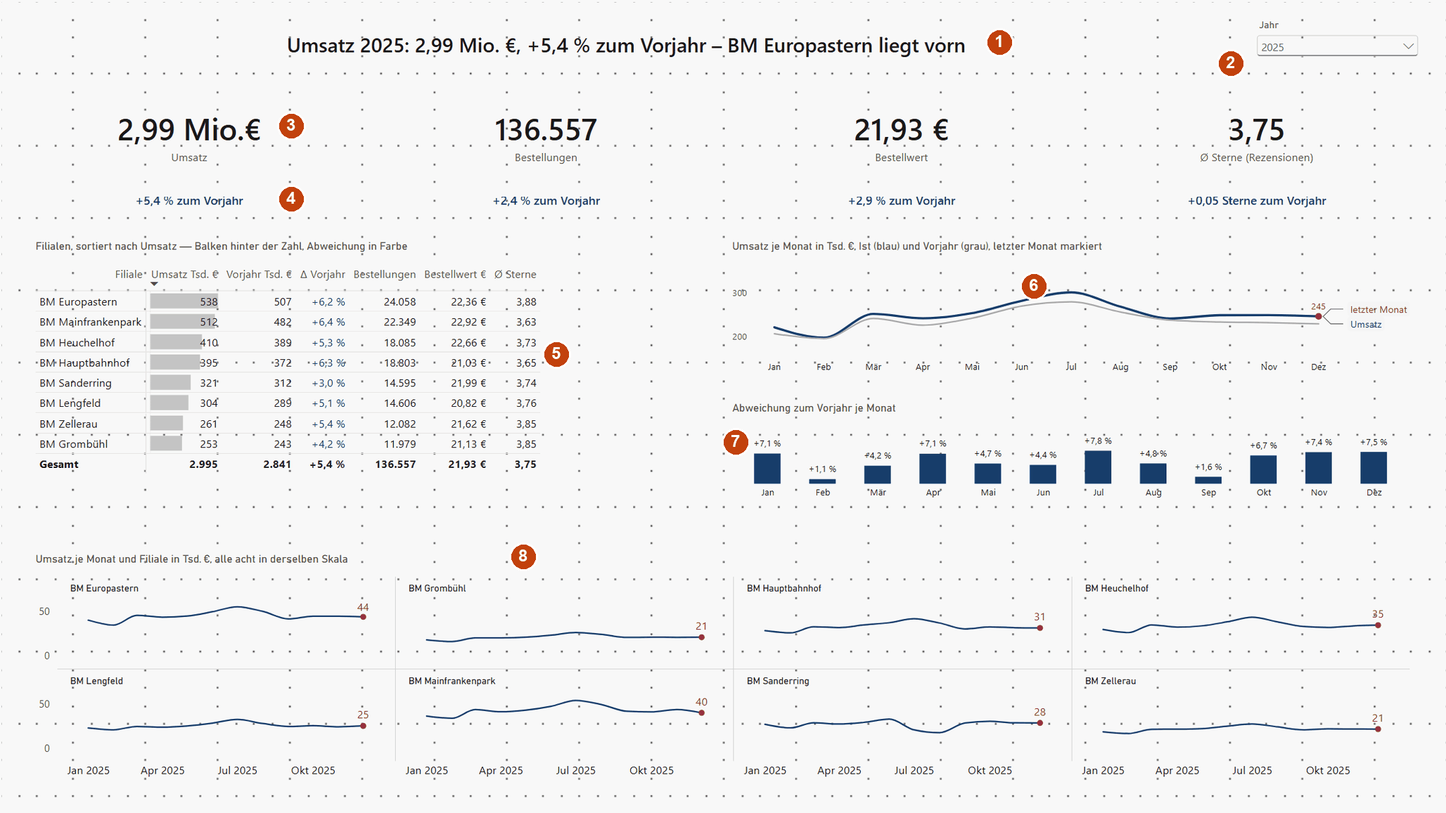
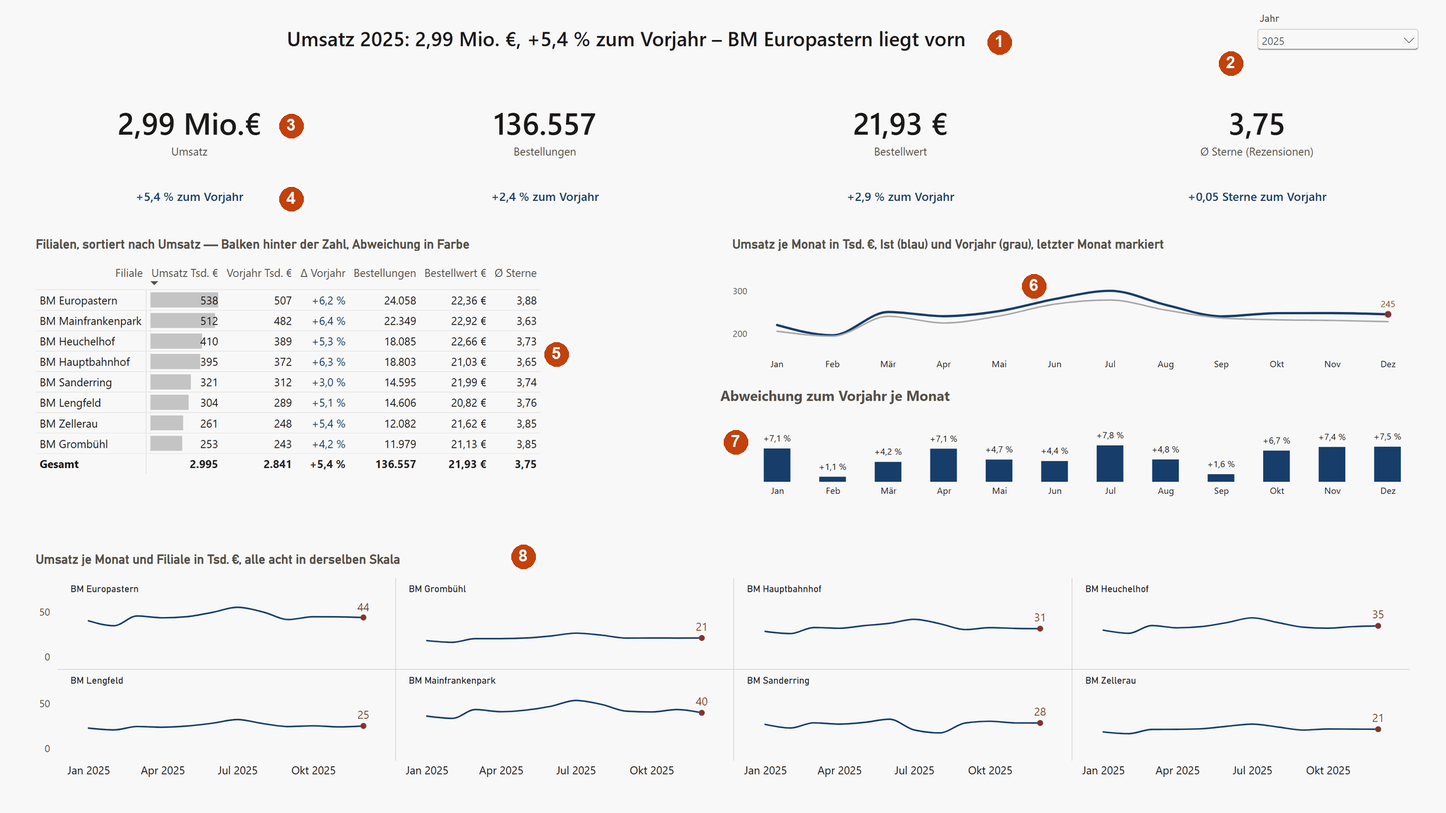
lab 04: Signalfarbe je Monat, Monate in einer Flucht, größere Überschriften
Die Säulen der Abweichung standen für 2020 alle rot, auch die vier Plus-Monate:
Der Formatstil der bedingten Formatierung stand auf "Regeln" mit Monat als
Grundlage statt auf "Feldwert" mit Δ Umsatz Farbe. Beim Umstellen schreibt
Power BI den Selektor dataViewWildcard, ohne den die Farbe einmal fürs ganze
Visual statt je Datenpunkt ausgewertet wird.

Dazu die Ausrichtung: Die Reihenbeschriftungen des Liniendiagramms verkürzten
dessen Zeichenfläche um 196 Pixel — abgeschaltet, der Titel nennt die Serien
ohnehin. Der Titel des Säulendiagramms ist jetzt ein Textfeld bei x 956, das
Diagramm selbst steht auf x 969 / Breite 938; damit decken sich Jan bis Dez
auf ein Pixel genau. Die Überschriften der drei übrigen Visuals sind 14 pt
fett statt 12 pt mager.

Neues Bild dashboard-2020.png zeigt, was die Signalfarbe bewirkt: Umsatz
−12,4 % und Bestellungen −13,3 % rot, Bestellwert +1,1 % und Ø Sterne +0,07
blau, die Säulen gemischt. dashboard.png neu aufgenommen, Legendenpunkte 6
und 7 nachgezogen, Spec ergänzt.

diff --git a/web/lab/lab-04-powerbi.html b/web/lab/lab-04-powerbi.html
@@ -290,10 +290,13 @@
       <li><span class="callout">3</span><span>Vier Karten: <code>Umsatz</code>, <code>Bestellungen</code>, <code>Bestellwert</code>, <code>Ø Sterne</code> — die Kontrollzahlen 2,99 Mio. €, 136.557, 21,93 €, 3,75.</span></li>
       <li><span class="callout">4</span><span>Darunter je eine Karte mit dem Text-Measure zur Abweichung, gefärbt über das Farb-Measure: +5,4 %, +2,4 %, +2,9 % und +0,05 Sterne zum Vorjahr 2024 — in Blau, weil alle vier im Plus liegen.</span></li>
       <li><span class="callout">5</span><span>Die Matrix der acht Filialen, absteigend nach Umsatz: Datenbalken in Grau hinter <code>Umsatz Tsd. €</code>, daneben Vorjahr, <code>Δ Vorjahr</code> in Farbe — hier durchweg Blau —, Bestellungen, Bestellwert, Ø Sterne; Gesamtzeile 2.995 · 2.841 · +5,4 % · 136.557 · 21,93 € · 3,75.</span></li>
-      <li><span class="callout">6</span><span>Ist (blau) gegen Vorjahr (grau) je Monat in Tsd. €, Serien direkt beschriftet statt mit Legende, der letzte Monat mit rotem Punkt und Wert: Dezember 245.</span></li>
-      <li><span class="callout">7</span><span>Die Abweichung je Monat als eigene Zeile: Säulen mit Vorzeichen, gefärbt über <code>Δ Umsatz Farbe</code> — Blau für plus, Rot für minus; 2025 in jedem Monat blau, +1,1 % im Februar bis +7,8 % im Juli.</span></li>
+      <li><span class="callout">6</span><span>Ist (blau) gegen Vorjahr (grau) je Monat in Tsd. €, die Serien im Titel benannt statt in einer Legende, der letzte Monat mit rotem Punkt und Wert: Dezember 245. Die Reihenbeschriftungen rechts neben den Linienenden sind aus (Format → Reihenbeschriftungen): Sie hätten die Zeichenfläche um rund 200 Pixel verkürzt, und die Säulen darunter stünden dann nicht mehr unter denselben Monaten.</span></li>
+      <li><span class="callout">7</span><span>Die Abweichung je Monat als eigene Zeile: Säulen mit Vorzeichen, gefärbt über <code>Δ Umsatz Farbe</code> — Blau für plus, Rot für minus; 2025 in jedem Monat blau, +1,1 % im Februar bis +7,8 % im Juli. Die Überschrift ist hier ein <strong>Textfeld</strong>, kein Visualtitel: So lässt sich das Diagramm um 13 Einheiten nach rechts rücken, damit seine Monate genau unter denen der Linie stehen, ohne dass die Überschrift mitwandert.</span></li>
       <li><span class="callout">8</span><span>Small Multiples: eine Linie je Filiale in derselben Skala, jede mit rotem Endpunkt und Wert. BM Europastern liegt bei 44 Tsd. € im Dezember, BM Zellerau und BM Grombühl bei 21.</span></li>
     </ol>
+    <div class="foto-reihe eins">
+      <figure class="foto"><a class="foto" href="assets/powerbi/dashboard-2020.png" target="_blank" rel="noopener"><img src="assets/powerbi/dashboard-2020.png" alt="Dieselbe Dashboard-Seite in Power BI Desktop mit dem Datenschnitt auf 2020: Titel Umsatz 2020: 0,73 Mio. €, -12,4 % zum Vorjahr – BM Europastern liegt vorn; die Kacheln zeigen 0,73 Mio. € mit -12,4 % und 46.209 mit -13,3 % in Rot, 15,77 € mit +1,1 % und 3,41 mit +0,07 Sterne in Blau; die Matrix führt nur fünf Filialen von BM Europastern 232 bis BM Lengfeld 40, die Spalte Δ Vorjahr zeigt -33,0 % rot und +154,1 % blau; die Säulen der Abweichung sind im Januar +88,7 %, Februar +66,4 %, August +5,9 % und September +23,4 % blau und in den acht übrigen Monaten rot bis -63,2 %; die Small Multiples zeigen fünf Linien statt acht" width="2056" height="1157" loading="lazy"></a><figcaption>Dasselbe Dashboard mit dem Datenschnitt auf 2020: <span class="callout">1</span> die Auswahl, <span class="callout">2</span> Umsatz −12,4 % und Bestellungen −13,3 % stehen in Rot, <span class="callout">3</span> Bestellwert +1,1 % und Ø Sterne +0,07 bleiben blau — jede Karte hat ihr eigenes Farb-Measure, und die Farbe folgt dem Vorzeichen. <span class="callout">4</span> Auch die Säulen mischen sich: Januar, Februar, August und September über, die acht übrigen Monate unter dem Vorjahr. <span class="callout">5</span> Matrix und Small Multiples zeigen nur fünf Filialen — BM Mainfrankenpark, BM Grombühl und BM Zellerau öffneten erst 2021, 2022 und 2023, BM Lengfeld im August 2020. Power BI lässt Zeilen ohne Werte weg; Tableau zeigt sie als leere Balken mit der Marke „3 Null-Werte“ (Lab 05).</figcaption></figure>
+    </div>
     <p>Die Vorjahresmeasures brauchen <code>dim_date</code> als markierte Datumstabelle und <code>SAMEPERIODLASTYEAR</code>; die Vorlage <code>powerbi-dashboard.dax</code> enthält alle 20 Measures und die Spalte <code>Monat</code> mit Erklärung, Befehlskarte B03 zerlegt die wichtigsten. Die Klickwege für die vier Bausteine, die den Unterschied zum Bericht machen, stehen in Befehlskarte B04 und den Bildschirmfotos darunter.</p>
     <div class="vorlagen">
       <a class="vorlage" href="vorlagen/powerbi-dashboard.dax" download><span class="symbol">📄</span><span><span class="datei">powerbi-dashboard.dax</span><br><span class="was">Vorjahr, Abweichung, Farbe und Text als Measures, der Titel als Measure, die Spalte Monat — mit Kontrollzahlen für 2025.</span></span></a>

diff --git a/docs/superpowers/specs/2026-09-12-bm-analyse-lernumgebung-design.md b/docs/superpowers/specs/2026-09-12-bm-analyse-lernumgebung-design.md
@@ -472,7 +472,7 @@ jeder Seite im Browser (Kopf, Navigation, Übungen, Datenbankband), Aufruf von
 
 **Stand 21. September 2026 (Prüfung von Lab 04 mit Power BI Desktop, dazu ein Dashboard):** Lab 04 wurde in Roberts Parallels-VM (Windows 11, deutsche Oberfläche) mit Power BI Desktop 2.157.1354.0 (August 2026) und dem Demo-Konto durchgespielt: Verbindung, Navigator, Import der sieben Tabellen, Modellansicht, fünf Measures, Seite „Bericht“ (Tabelle der Kontrollzahlen, Balken je Filiale, Linie je Monat, Seitenfilter 2025) — Kontrollzahlen 2.994.771,13 € · 136.557 · 21,93 € · 3,75 wie in `v_kennzahlen_jahr`. Auf Roberts Wunsch kam eine Seite „Dashboard“ nach den Regeln aus `references/diagramme.md` (Tufte, Bissantz, IBCS) dazu: Titel als Measure, vier Kacheln mit Abweichung zum Vorjahr, Matrix der Filialen mit Datenbalken hinter der Zahl, Ist gegen Vorjahr je Monat mit markiertem letztem Punkt, Abweichung als eigene Zeile in Grün/Rot, Small Multiples je Filiale in gleicher Skala, Monatskürzel auf den Achsen; 20 zusätzliche Measures und die Spalte `Monat` (Vorlage `web/lab/vorlagen/powerbi-dashboard.dax`), das Projekt als PBIP ohne Daten und Kennwort unter `powerbi/BurgerMetrics/` (die Seite „Dashboard“ ist als PBIR-JSON geschrieben und in Power BI geladen, geprüft und gespeichert). Befunde und Folgen im Lab: (1) Die Verbindung ist ein einziger Dialog „Mit Datenquelle verbinden“ (Server mit Port, Datenbank, Importieren/DirectQuery, Erweiterte Optionen mit SQL-Anweisung, Authentifizierungsart Standard, Datenschutzebene, Kästchen „Verschlüsselte Verbindung verwenden“); der Wortlaut einer Warnung zur unverschlüsselten Verbindung trat nicht auf (Anmeldung war gespeichert) und wird nicht mehr behauptet. (2) Der Navigator listet Tabellen und gewöhnliche Sichten (48 Einträge), keine materialisierten — die 38 `v_*` fehlen; Weg über „SQL-Anweisung“ mit Genehmigung der nativen Abfrage belegt (`v_kennzahlen_jahr`, zehn Zeilen). (3) Nach dem Laden entstanden acht Beziehungen (alle `_id`-Spalten, im Projekt `AutoDetected_`), die zwei Fremdschlüssel auf `dim_date.date` fehlten trotz beider Optionen und wurden von Hand angelegt; `fact_reviews → fact_orders` legte Power BI selbst als 1:1 inaktiv an (`order_id` beidseitig eindeutig). Die Aussage „13 Fremdschlüssel → 13 Beziehungen“ ist gestrichen. (4) DirectQuery über `fact_order_items` scheitert mit dem belegten Wortlaut „Das Resultset einer Abfrage an eine externe Datenquelle hat die maximal zulässige Größe von 1000000 Zeilen überschritten.“; die inaktive Filialbeziehung zeigt in jedem Balken die Gesamtsumme plus eine Zeile „(Leer)“ (nachgestellt). (5) Die zwei Nachbildungen sind durch 20 Bildschirmfotos unter `web/lab/assets/powerbi/` ersetzt (2,6 MB); Lab 04 hat einen neuen Abschnitt „Das Dashboard“, Befehlskarten B03/B04, Checkliste W04-05 mit acht Schritten, Quizfrage zu den Beziehungen; `LABS` in `bm.js` nennt 150 Minuten; `verify.mjs` 803 Zusicherungen, 0 Fehler. Werkzeuglehre: Parallels-Fenster nur per `computer_batch` bedienbar; Mac-seitiges Schreiben in den VM-Ordner hinterlässt `._*`-Dateien, die Power BI als TMDL zu lesen versucht — vor jedem Öffnen löschen. Nicht geprüft: der Wortlaut der Verschlüsselungswarnung, die Fan Trap im Modell (Zahlen aus SQL), das Verhalten mit allen 14 Tabellen.
 
-**Stand 22. September 2026 (Kennzahlen-Dashboard in Tableau):** Auf Roberts Wunsch wurde das Dashboard aus Lab 04 mit Tableau Desktop 2026.2 (macOS, deutsche Oberfläche, Demo-Konto) nachgebaut und Lab 05 um den Abschnitt „Das Kennzahlen-Dashboard“ erweitert (Roberts Vorgabe vom 22.09.: keine Nennung von Tufte/Bissantz in Überschriften — auch die Lab-04-Einleitung angepasst): Datenquelle aus `fact_orders`, `dim_branch` und `fact_reviews` (Beziehung `Order Id = Order Id`, von Tableau nicht vorgeschlagen) als Extrakt; Parameter `Jahr` statt eines Filters, weil ein Filter das Vorjahr aus dem Blatt entfernen würde — Ist und Vorjahr als `SUM(IF YEAR([Date]) = [Jahr] THEN [Net Total] END)` und `[Jahr] - 1`, ohne Datumstabelle; 27 Calculated Fields (`web/lab/vorlagen/tableau-dashboard-felder.txt`, Befehlskarte B05), darunter der rote Punkt als Doppelachse mit einem Feld, das nur im jüngsten Monat einen Wert hat, `Top Filiale` als verschachtelter FIXED-Ausdruck und der Titel als Feld (`STR()` schreibt Dezimalpunkte, `REPLACE` das Komma); zehn Blätter; nach Roberts Rückmeldung zur ersten Fassung („zu gedrängt, zu wenig Weißraum, untere Grafik zu lang gestreckt“) neu gesetzt: 1600 × 1100, ein vertikaler Container als Rahmen mit horizontalen Containern fester Höhe je Reihe (80/140/390), zwölf Pixel äußere Füllung je Kachel und 20 am Rand, Trenn- und Rasterlinien über Format → Linien entfernt, die Small Multiples in der dritten Runde (Roberts Rückmeldung: Filialname als Überschrift, nicht als Label; gleiche Höhen; letzter Monat an der Achse; Dropdown) als zwei Blätter zu je vier Filialen mit `Branch Name` auf Spalten (Überschrift), Filter auf die Tabellenberechnung `Zeile = INT((INDEX() - 1) / 4)` (0/1, Berechnen per Branch Name), feste Achse 10–60, Teilstriche der Monatsachse alle zwei Monate ab Februar (Dez. angetragen); Balken und Tabelle auf „Gesamte Ansicht“, damit die mittlere Reihe unten bündig schließt; die Abweichung behält ihre Achse in Weiß plus 25 px innere Füllung, ihr Titel ist ein Textobjekt, damit Linie und Säulen monatsgenau übereinanderstehen; Linienachsen ohne Null, Monatskürzel über das Datumsformat „Abkürzung“; der Parameter mit Werteliste 2018–2026 unverankert (Layout x 1380, y 24, 180 × 56) als Kompaktliste (Dropdown), Blatttitel als Legende mit `<Parameter.Jahr>`, Achsentitel und Feldbeschriftungen ausgeblendet, Aliasse für die Spaltenköpfe (Befehlskarte B06). Kontrollzahlen wie in Lab 04: 2.994.771 · 136.557 · 21,93 · 3,750, Abweichungen +5,4 % · +2,4 % · +2,9 % · +0,05 Sterne, Titel „Umsatz 2025: 2,99 Mio. €, +5,4 % zum Vorjahr – BM Europastern liegt vorn“. Zwölf weitere Bildschirmfotos unter `web/lab/assets/tableau/` (Fensteraufnahmen; Menüs und Dialoge als eigene Fenster aufgenommen und an ihrer Bildschirmposition eingesetzt, weil eine Vollbildaufnahme fremde Fenster mitnähme), die Arbeitsmappe unter `tableau/BurgerMetrics.twb` (XML, ohne Daten und Kennwort, `tableau/README.md`), Sperrdatei über `.gitignore` ausgeschlossen; Quiz W05-03 um die Frage Parameter gegen Filter, Checkliste W05-05 um die Kür ergänzt; Lab 05 auf 150 Minuten; `verify.mjs` 815 Zusicherungen, 0 Fehler. Befunde: (1) Tableau-Kacheln im Raster lassen sich nicht über die Größenfelder des Layout-Reiters setzen (nur Anzeige), Ränder werden gezogen oder Container verteilt; (2) Anpassung und Blatttitel sind je Kachel im Dashboard einzustellen, nicht im Blatt; (3) ein Textblatt in Standard-Anpassung bricht Spaltenköpfe um, im Dashboard erst nach einer höheren Kopfzeile — deshalb Aliasse mit Trennstrich („Bestel- lungen“); (4) `STR()` einer Zahl liefert den Dezimalpunkt der Formelsprache, nicht der Oberfläche; (5) Kacheln bekommen ihre Höhe verlässlich nur über „Höhe fixieren“ im Menü des umgebenden Containers, die Größenfelder im Layout-Reiter sind bei Rasterkacheln nur Anzeige; (6) eine Tabellenberechnung mit `INDEX()` zählt ohne „Berechnen per“ die innerste Dimension (Monate) — für das Raster muss sie über `Branch Name` laufen. Vierte Runde (Robert): alle Hilfslinien entfernt — je Blatt Format → Linien (Raster-, Null-, Achsenmaßstäbe, Achsenteilstriche „Keine“, Reiter Blatt/Zeilen/Spalten getrennt) und Format → Rahmen (Zeilen-/Spaltentrennung „Keine“); Lab 05 verlinkt die `.twb` im Repository (Vorlagenkarte, Stand-Hinweis, Fotohinweis). Fünfte Runde (Robert, nach dem Merge): Signalfarben plus Blau `#4E79A7` (Blau der Ist-Linie) und minus Rot `#E15759` statt Grün — in der Mappe war minus bis dahin das Tableau-Standardblau; gesetzt über „Farben bearbeiten…“ am Feld `Δ Umsatz Richtung` (der Wert „minus“ erscheint dort erst, wenn der Parameter auf ein Jahr mit Minus-Monaten steht) und als Schriftfarbe der Δ-Zeile in den vier Karten; neues Bild `dashboard-farben.png`, Lab-Text nennt die Grenze, dass Kartentexte eine feste Schriftfarbe haben. Lab 04 (Power BI) am selben Tag nachgezogen: die vier Farb-Measures auf `#003E6E` (THWS-Blau, Leitfarbe der Ist-Linie), Modell in der VM über „Apply external changes“ neu geladen und mit `Aktualisieren` neu gerechnet (ein Neuladen allein genügt nicht — die Visuals behalten ihr Abfrageergebnis; zwei Visuals meldeten dabei „Der Vorgang wurde abgebrochen“ und rendern nach einem zweiten Lauf), Bildschirmfoto `assets/powerbi/dashboard.png` neu, Lab-04-Text, DAX-Vorlage und Befehlskarte B03 angepasst; die von Power BI beim Speichern neu erzeugte `cultures/de-DE.tmdl` (16.000 Zeilen linguistische Metadaten) wurde nicht übernommen. Weitere Befunde: (7) ein Blatt ohne Achse hat einen breiteren Zeichenbereich als eines mit Achse — gleiche Monatsspalten nur mit unsichtbarer (weißer) Achse; (8) eine Kachel im Raster bekommt Weißraum über „Äußere Füllung“, ihre Höhe über den umgebenden Container; (9) INDEX() für Small Multiples zählt ohne „Berechnen per“ die Monate. Sechste Runde (Robert: „mach das auch in Tableau dynamisch“): Die Δ-Zeile der vier Karten ist jetzt ein eigenes Blatt — Tableau färbt eine Beschriftung immer ganz, deshalb trägt „Karte Umsatz“ nur Zahl und Name, „Karte Umsatz Δ“ nur die Δ-Zeile mit `Δ Umsatz Richtung` auf Farbe; dazu drei neue Richtungsfelder (`Δ Bestellungen Richtung`, `Δ Bestellwert Richtung`, `Δ Ø Sterne Richtung`; zusammen 30 Felder) und vier neue Blätter (zusammen fünfzehn). Die Streifen liegen unverankert unter ihrer Karte (y 207, 388 × 34, x 24 · 412 · 800 · 1188), die vier Farblegenden sind aus dem Dashboard entfernt; geprüft mit dem Parameter auf 2020 (Umsatz −12,4 % und Bestellungen −13,3 % in Rot) und auf 2019 (Ø Sterne −0,27 in Rot). Neues Bild `dashboard-delta.png`, neue Aufnahmen von `dashboard-fertig.png` und `dashboard-karte.png`; Vorlage, B05, B06, W05-05, `tableau/README.md` und der Abschnittstext nachgezogen. Am selben Tag in Power BI: die Small Multiples bekommen eine stetige Datumsachse — neue berechnete Spalte `Monatsbeginn = DATE(dim_date[year], dim_date[month], 1)` in `dim_date`, im Visual als Kategorie statt `Monat` (Text) und Format → X-Achse → Typ „Fortlaufend“, damit Power BI die Beschriftungen ausdünnt wie Tableau (mit `date` allein wird die Achse tagesgenau und unlesbar; `preferredCategoryWidth` ändert daran nichts und lässt die Achse scrollen). Weitere Befunde: (10) „Farben bearbeiten…“ speichert nur Werte, die im Blatt vorkommen — für ein Feld, dessen „minus“ im Bestand nie auftritt (Δ Bestellwert ist in jedem Jahr positiv), ist die Zuordnung nur im XML der `.twb` zu ergänzen; (11) wird eine Kachel aus einem Flow-Container genommen, verteilt Tableau die frei werdende Höhe auf die übrigen Reihen — die Titelreihe wuchs dabei von 80 auf 195 Pixel und wurde über „Höhe bearbeiten…“ im Menü der Kachel wieder gesetzt; (12) unverankerte Kacheln behalten ihre absoluten Koordinaten, wenn sich die Reihen darunter verschieben, und sind nach jeder Layoutänderung nachzuziehen. Nicht geprüft: das Öffnen der `.twb` auf einem anderen Rechner (fehlender Extrakt) und Tableau Public.
+**Stand 22. September 2026 (Kennzahlen-Dashboard in Tableau):** Auf Roberts Wunsch wurde das Dashboard aus Lab 04 mit Tableau Desktop 2026.2 (macOS, deutsche Oberfläche, Demo-Konto) nachgebaut und Lab 05 um den Abschnitt „Das Kennzahlen-Dashboard“ erweitert (Roberts Vorgabe vom 22.09.: keine Nennung von Tufte/Bissantz in Überschriften — auch die Lab-04-Einleitung angepasst): Datenquelle aus `fact_orders`, `dim_branch` und `fact_reviews` (Beziehung `Order Id = Order Id`, von Tableau nicht vorgeschlagen) als Extrakt; Parameter `Jahr` statt eines Filters, weil ein Filter das Vorjahr aus dem Blatt entfernen würde — Ist und Vorjahr als `SUM(IF YEAR([Date]) = [Jahr] THEN [Net Total] END)` und `[Jahr] - 1`, ohne Datumstabelle; 27 Calculated Fields (`web/lab/vorlagen/tableau-dashboard-felder.txt`, Befehlskarte B05), darunter der rote Punkt als Doppelachse mit einem Feld, das nur im jüngsten Monat einen Wert hat, `Top Filiale` als verschachtelter FIXED-Ausdruck und der Titel als Feld (`STR()` schreibt Dezimalpunkte, `REPLACE` das Komma); zehn Blätter; nach Roberts Rückmeldung zur ersten Fassung („zu gedrängt, zu wenig Weißraum, untere Grafik zu lang gestreckt“) neu gesetzt: 1600 × 1100, ein vertikaler Container als Rahmen mit horizontalen Containern fester Höhe je Reihe (80/140/390), zwölf Pixel äußere Füllung je Kachel und 20 am Rand, Trenn- und Rasterlinien über Format → Linien entfernt, die Small Multiples in der dritten Runde (Roberts Rückmeldung: Filialname als Überschrift, nicht als Label; gleiche Höhen; letzter Monat an der Achse; Dropdown) als zwei Blätter zu je vier Filialen mit `Branch Name` auf Spalten (Überschrift), Filter auf die Tabellenberechnung `Zeile = INT((INDEX() - 1) / 4)` (0/1, Berechnen per Branch Name), feste Achse 10–60, Teilstriche der Monatsachse alle zwei Monate ab Februar (Dez. angetragen); Balken und Tabelle auf „Gesamte Ansicht“, damit die mittlere Reihe unten bündig schließt; die Abweichung behält ihre Achse in Weiß plus 25 px innere Füllung, ihr Titel ist ein Textobjekt, damit Linie und Säulen monatsgenau übereinanderstehen; Linienachsen ohne Null, Monatskürzel über das Datumsformat „Abkürzung“; der Parameter mit Werteliste 2018–2026 unverankert (Layout x 1380, y 24, 180 × 56) als Kompaktliste (Dropdown), Blatttitel als Legende mit `<Parameter.Jahr>`, Achsentitel und Feldbeschriftungen ausgeblendet, Aliasse für die Spaltenköpfe (Befehlskarte B06). Kontrollzahlen wie in Lab 04: 2.994.771 · 136.557 · 21,93 · 3,750, Abweichungen +5,4 % · +2,4 % · +2,9 % · +0,05 Sterne, Titel „Umsatz 2025: 2,99 Mio. €, +5,4 % zum Vorjahr – BM Europastern liegt vorn“. Zwölf weitere Bildschirmfotos unter `web/lab/assets/tableau/` (Fensteraufnahmen; Menüs und Dialoge als eigene Fenster aufgenommen und an ihrer Bildschirmposition eingesetzt, weil eine Vollbildaufnahme fremde Fenster mitnähme), die Arbeitsmappe unter `tableau/BurgerMetrics.twb` (XML, ohne Daten und Kennwort, `tableau/README.md`), Sperrdatei über `.gitignore` ausgeschlossen; Quiz W05-03 um die Frage Parameter gegen Filter, Checkliste W05-05 um die Kür ergänzt; Lab 05 auf 150 Minuten; `verify.mjs` 815 Zusicherungen, 0 Fehler. Befunde: (1) Tableau-Kacheln im Raster lassen sich nicht über die Größenfelder des Layout-Reiters setzen (nur Anzeige), Ränder werden gezogen oder Container verteilt; (2) Anpassung und Blatttitel sind je Kachel im Dashboard einzustellen, nicht im Blatt; (3) ein Textblatt in Standard-Anpassung bricht Spaltenköpfe um, im Dashboard erst nach einer höheren Kopfzeile — deshalb Aliasse mit Trennstrich („Bestel- lungen“); (4) `STR()` einer Zahl liefert den Dezimalpunkt der Formelsprache, nicht der Oberfläche; (5) Kacheln bekommen ihre Höhe verlässlich nur über „Höhe fixieren“ im Menü des umgebenden Containers, die Größenfelder im Layout-Reiter sind bei Rasterkacheln nur Anzeige; (6) eine Tabellenberechnung mit `INDEX()` zählt ohne „Berechnen per“ die innerste Dimension (Monate) — für das Raster muss sie über `Branch Name` laufen. Vierte Runde (Robert): alle Hilfslinien entfernt — je Blatt Format → Linien (Raster-, Null-, Achsenmaßstäbe, Achsenteilstriche „Keine“, Reiter Blatt/Zeilen/Spalten getrennt) und Format → Rahmen (Zeilen-/Spaltentrennung „Keine“); Lab 05 verlinkt die `.twb` im Repository (Vorlagenkarte, Stand-Hinweis, Fotohinweis). Fünfte Runde (Robert, nach dem Merge): Signalfarben plus Blau `#4E79A7` (Blau der Ist-Linie) und minus Rot `#E15759` statt Grün — in der Mappe war minus bis dahin das Tableau-Standardblau; gesetzt über „Farben bearbeiten…“ am Feld `Δ Umsatz Richtung` (der Wert „minus“ erscheint dort erst, wenn der Parameter auf ein Jahr mit Minus-Monaten steht) und als Schriftfarbe der Δ-Zeile in den vier Karten; neues Bild `dashboard-farben.png`, Lab-Text nennt die Grenze, dass Kartentexte eine feste Schriftfarbe haben. Lab 04 (Power BI) am selben Tag nachgezogen: die vier Farb-Measures auf `#003E6E` (THWS-Blau, Leitfarbe der Ist-Linie), Modell in der VM über „Apply external changes“ neu geladen und mit `Aktualisieren` neu gerechnet (ein Neuladen allein genügt nicht — die Visuals behalten ihr Abfrageergebnis; zwei Visuals meldeten dabei „Der Vorgang wurde abgebrochen“ und rendern nach einem zweiten Lauf), Bildschirmfoto `assets/powerbi/dashboard.png` neu, Lab-04-Text, DAX-Vorlage und Befehlskarte B03 angepasst; die von Power BI beim Speichern neu erzeugte `cultures/de-DE.tmdl` (16.000 Zeilen linguistische Metadaten) wurde nicht übernommen. Weitere Befunde: (7) ein Blatt ohne Achse hat einen breiteren Zeichenbereich als eines mit Achse — gleiche Monatsspalten nur mit unsichtbarer (weißer) Achse; (8) eine Kachel im Raster bekommt Weißraum über „Äußere Füllung“, ihre Höhe über den umgebenden Container; (9) INDEX() für Small Multiples zählt ohne „Berechnen per“ die Monate. Sechste Runde (Robert: „mach das auch in Tableau dynamisch“): Die Δ-Zeile der vier Karten ist jetzt ein eigenes Blatt — Tableau färbt eine Beschriftung immer ganz, deshalb trägt „Karte Umsatz“ nur Zahl und Name, „Karte Umsatz Δ“ nur die Δ-Zeile mit `Δ Umsatz Richtung` auf Farbe; dazu drei neue Richtungsfelder (`Δ Bestellungen Richtung`, `Δ Bestellwert Richtung`, `Δ Ø Sterne Richtung`; zusammen 30 Felder) und vier neue Blätter (zusammen fünfzehn). Die Streifen liegen unverankert unter ihrer Karte (y 207, 388 × 34, x 24 · 412 · 800 · 1188), die vier Farblegenden sind aus dem Dashboard entfernt; geprüft mit dem Parameter auf 2020 (Umsatz −12,4 % und Bestellungen −13,3 % in Rot) und auf 2019 (Ø Sterne −0,27 in Rot). Neues Bild `dashboard-delta.png`, neue Aufnahmen von `dashboard-fertig.png` und `dashboard-karte.png`; Vorlage, B05, B06, W05-05, `tableau/README.md` und der Abschnittstext nachgezogen. Am selben Tag in Power BI: die Small Multiples bekommen eine stetige Datumsachse — neue berechnete Spalte `Monatsbeginn = DATE(dim_date[year], dim_date[month], 1)` in `dim_date`, im Visual als Kategorie statt `Monat` (Text) und Format → X-Achse → Typ „Fortlaufend“, damit Power BI die Beschriftungen ausdünnt wie Tableau (mit `date` allein wird die Achse tagesgenau und unlesbar; `preferredCategoryWidth` ändert daran nichts und lässt die Achse scrollen). Weitere Befunde: (10) „Farben bearbeiten…“ speichert nur Werte, die im Blatt vorkommen — für ein Feld, dessen „minus“ im Bestand nie auftritt (Δ Bestellwert ist in jedem Jahr positiv), ist die Zuordnung nur im XML der `.twb` zu ergänzen; (11) wird eine Kachel aus einem Flow-Container genommen, verteilt Tableau die frei werdende Höhe auf die übrigen Reihen — die Titelreihe wuchs dabei von 80 auf 195 Pixel und wurde über „Höhe bearbeiten…“ im Menü der Kachel wieder gesetzt; (12) unverankerte Kacheln behalten ihre absoluten Koordinaten, wenn sich die Reihen darunter verschieben, und sind nach jeder Layoutänderung nachzuziehen. Siebte Runde am selben Tag (Power BI, nach einem Bildschirmfoto mit Jahr 2020): Dabei fiel auf, dass die Säulen der Abweichung je Monat **alle** rot standen, auch die vier Plus-Monate — der Formatstil der bedingten Formatierung stand auf „Regeln“ mit `Monat` als Grundlage statt auf „Feldwert“ mit `Δ Umsatz Farbe`; Power BI schreibt beim Umstellen den Selektor `dataViewWildcard` (`matchingOption: 1`), ohne den die Farbe einmal für das ganze Visual statt je Datenpunkt ausgewertet wird (die Matrix war nie betroffen, weil ihre Formatierung einen `metadata`-Selektor trägt). Dazu Roberts Vorgaben: Monate von Linien- und Säulendiagramm exakt in einer Flucht, Überschriften größer und fett. Umgesetzt: Reihenbeschriftungen des Liniendiagramms aus (sie verkürzten die Zeichenfläche um 196 px und waren die Hauptursache des Versatzes), Titel des Säulendiagramms aus und als **Textfeld** bei x 956 gesetzt, das Diagramm selbst auf x 969 / Breite 938 — damit decken sich Jan bis Dez auf ein Pixel genau; Überschriften der drei übrigen Visuals auf 14 pt fett. Nicht erreichbar war der letzte Monat an der Achse der Small Multiples: Eine stetige Datumsachse setzt ihre Teilstriche auf Quartalsanfänge (Jan · Apr · Jul · Okt), ein Achsenminimum vom 01.12.2024 verschiebt sie nicht, und eine kategoriale Achse beschriftet wieder alle zwölf Monate — Tableau kann das über feste Teilstrichabstände, Power BI nicht. Neues Bild `assets/powerbi/dashboard-2020.png`, `dashboard.png` neu aufgenommen, Legendenpunkte 6 und 7 in Lab 04 nachgezogen. Werkzeuglehre: Power BI Desktop arbeitet in der VM auf `C:\Users\robert\burgermetrics-pbi` (über `/Volumes/[C] Windows 11.hidden/...` auch vom Mac aus erreichbar); Änderungen müssen von dort ins Repo kopiert werden, und Mac-seitige Schreibzugriffe hinterlassen `._*`-Dateien, die vor dem Öffnen zu löschen sind. Nicht geprüft: das Öffnen der `.twb` auf einem anderen Rechner (fehlender Extrakt) und Tableau Public.
 
 ## 12 Reihenfolge
 
